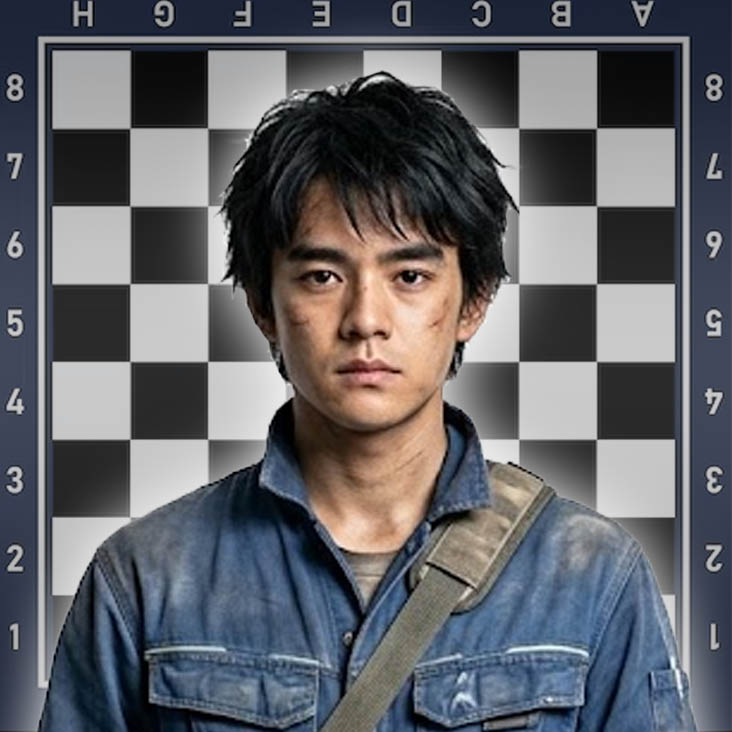
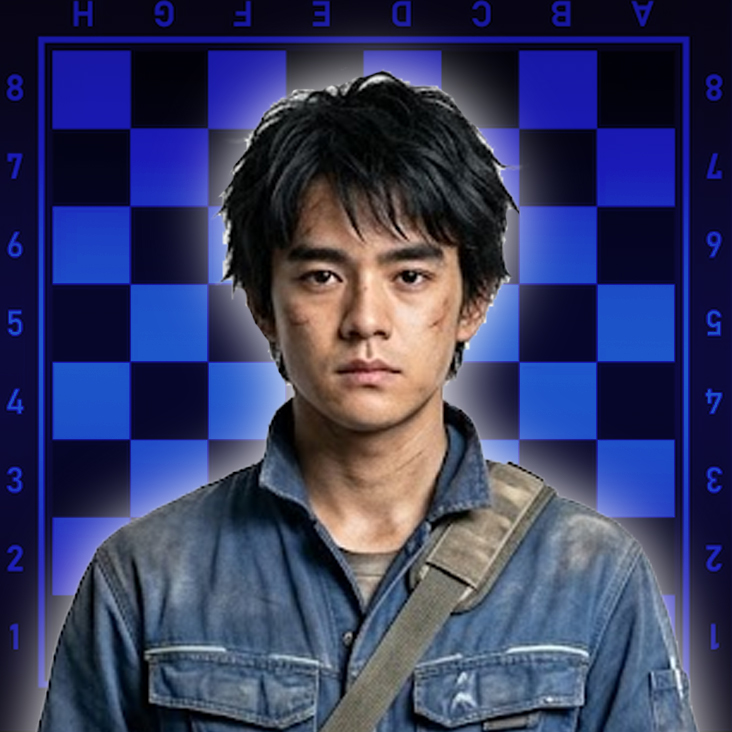
Episode 3

diff --git a/data/site-data.js b/data/site-data.js
@@ -32,30 +32,30 @@ window.CROWN_DATA = {
     // 首页骑士主视觉与骑士资料图完全分离。
     // 以后每周可以换成 assets/images/home/riders/week-02-xxx.png
     riderFeature:{
-      riderId:'crown',
+      riderId:'tunnel',
       formId:'base',
-      image:'assets/images/home/riders/week-01-crown.png',
-      note:'主角骑士公开：基础、沙漠、天空、狂风四种形态。'
+      image:'assets/images/home/riders/week-03-tunnel.png',
+      note:'二号骑士：假面骑士Tunnel重磅登场！'
     },
 
     // 首页只展示这里指定的人物，不会把人物库全部塞上来。
-    characterIds:['moroboshi','ijima'],
+    characterIds:['moroboshi','ego','ijima'],
 
     // 首页只展示这里指定的梦幻体。
-    monsterIds:['happy'],
+    monsterIds:['sabaku','happy'],
 
     // 首页道具同理；想展示几个就写几个。
-    itemIds:['driver','king-core','knock-o'],
+    itemIds:['tunnel-driver','knight-core','sabaku-core'],
 
     // 首页 STORY 指向哪一集。
-    storyId:'ep02'
+    storyId:'ep03'
   },
 
   news: [
-    { date:'2026.10.06', tag:'官网', text:'《假面骑士 Crown》官方网站开放' },
-    { date:'2026.10.17', tag:'故事', text:'第 02 集剧情页面公开' },
-    { date:'2026.10.17', tag:'官网', text:'小说目前在刺猬猫/番茄/飞卢/起点同期连载' },
-    { date:'2026.10.06', tag:'道具', text:'皇冠驱动器、捷能充芯与武器资料公开' }
+    { date:'2026.10.24', tag:'官网', text:'小说目前已确认在刺猬猫独家连载' },
+    { date:'2026.10.24', tag:'故事', text:'第 03 集剧情页面公开' },
+    { date:'2026.10.24', tag:'道具', text:'二号骑士Tunnel资料公开' },
+    { date:'2026.10.06', tag:'官网', text:'《假面骑士 Crown》官方网站开放' }
   ],
 
   /* =========================================================
@@ -115,7 +115,7 @@ window.CROWN_DATA = {
             {label:'拳力',value:'10.5 t'}, {label:'踢力',value:'15.0 t'},
             {label:'跳跃力',value:'35.0 m'}, {label:'跑速',value:'100 m / 4.8 s'}
           ],
-          abilities:['未知'],
+          abilities:['终焉必杀：荒漠熨杀（Sabaku-thermia Ironing）是配合武器击倒拳铳使出的必杀技，白沙汇聚在击倒拳铳的熨面，在攻击到敌人的瞬间以极快的速度腐蚀敌人的身体，以达到一击破防的效果。'],
           components:[
             {no:'01',name:'流沙盔甲',text:'夸张的蓝白色肩甲，其中间隙藏有【沙尘发生器】——将空气中水分和微量矿物转化为白色沙尘的核心装置，可用于紧急回避或制造沙幕。'},
             {no:'02',name:'荒芜披挂',text:'由隔热粒子组成的胸部铠甲，防止腐蚀沙尘反噬变身者，这一隔热粒子以胸甲为中心扩散到假面骑士Crown的全身各处。受到重击时，胸甲会主动崩解一部分外层装甲化为白沙消散，以卸除冲击力。'},
@@ -166,6 +166,48 @@ window.CROWN_DATA = {
           ]
         }
       ]
+    },
+    {
+      id:'tunnel',
+      published:true,
+      no:'01',
+      name:'假面骑士 Tunnel',
+      en:'KAMEN RIDER TUNNEL',
+      catch:'或者，你可以称呼我为——假面骑士Tunnel。',
+      forms:[
+        {
+          id:'base', no:'01', name:'CROWN', cn:'基础形态',
+          full:'../assets/images/riders/tunnel/tunnel-base-full.png',
+          head:'../assets/images/riders/tunnel/tunnel-base-head.png',
+          call:'Sitsugiru KNIGHT！速度之猿！KAMEN RIDER TUNNEL！',
+          intro:'由长谷川映悟使用隧道驱动器与骑士捷能充芯构筑的高机动形态。擅长以高机动性战斗，在国际象棋体系中对应“骑士”。',
+          relations:[{section:'other', categoryId:'guardian', entityId:'vulki', formId:'base', label:'灵魄守护兽 乌尔奇 / 基础形态'}],
+          stats:[
+            { label: '身高', value: '198.0 cm' }, // 重装皮套显得修长且魁梧
+            { label: '体重', value: '106.5 kg' }, // 包含涡轮引擎、排气管背包等金属重装，体重增加
+            { label: '拳力', value: '16.8 t' },   // 依靠引擎扭矩和猿猴臂力，拳力略高于均衡型
+            { label: '踢力', value: '27.5 t' },   // 战靴和护腿有推进器增压，踢击是核心输出
+            { label: '跳跃力', value: '45.0 m' }, // 完美体现“猿猴”的灵巧与腾空能力，远超均衡型
+            { label: '跑速', value: '100 m / 3.2 s' } // 机车引擎带来的爆发加速，跑速极快
+          ],
+          abilities:[ '未知'],
+          components:[
+            { no:'01', name:'禅勇刀镡', text:'存放禅&勇两把能量刀的便携式背包，Tunnel使用武器作战因此更加方便。' },
+            { no:'02', name:'斗骑盔铠', text:'内置多功能成像系统，可捕捉周围范围内的灵魄能量波动。' },
+            { no:'03', name:'整流甲胄', text:'采用多层复合装甲结构的纯白胸甲，能有效将正面受到的冲击向四周分散化解。' },
+            { no:'04', name:'深红引擎', text:'安装在双肩的红色涡轮结构，在高速运动中可加速周围气流流动，辅助散热。' },
+            { no:'05', name:'心猿', text:'嵌于胸甲右侧的圆形赤红能量核心，作为全身动力分配的中枢枢纽。可瞬间释放过载能量，为战斗提供爆发性输出。' },
+            { no:'06', name:'突击臂铠', text:'臂铠具备基础的隔空散热功能，可弹开部分类型的能量弹攻击。' },
+            { no:'07', name:'传能铁手', text:'手甲由多层纳米合金锻压而成，手背处嵌有方形能量导口，可在使用手部进攻时减轻反震。' },
+            { no:'08', name:'高能战斗服', text:'软质弹性材料组成的底衣，可以提升变身者的机动性和爆发性。' },
+            { no:'09', name:'冲锋护腿', text:'腿部的助推器可在骑士踢释放瞬间喷出气流增压，提升踢击贯穿力。膝盖部分象征“国王”的浮雕装甲额外加厚，便于进行膝撞等近身缠斗。' },
+            { no:'10', name:'进攻者战靴', text:'靴体装有小型能量导口，用于适应任何速度的进攻行动。靴跟处的压缩喷口会在踢技时向后方喷射高压气流，提供额外加速度。' },
+            { no:'11', name:'风切之凝眉', text:'额头的长型护额板，不仅强化了头部抗冲击力，更是变身者精神力的具象化。' },
+            { no:'12', name:'分析面甲', text:'搭载了乌尔奇数据库中的所有战斗资料，具备动态捕捉、红外热成像与速度预判功能，能在作战中瞬间看破敌方弱点。' },
+            { no:'13', name:'勇猛耳锥', text:'内部集成高频通讯与雷达天线，让变身者拥有如猿猴般敏锐的听觉与战场感知。' }
+          ]
+        }
+      ]
     }
   ],
 
@@ -209,12 +251,44 @@ window.CROWN_DATA = {
           relations:[{section:'rider', riderId:'crown', formId:'base', label:'假面骑士 Crown / 基础形态'}]
         }
       ]
+    },
+    {
+      id:'vulki', categoryId:'guardian', published:true, no:'G01',
+      name:'乌尔奇', en:'VULKI', catch:'与 Tunnel 缔结灵魂契约的灵魄守护兽。',
+      forms:[
+        {
+          id:'base', no:'01', name:'VULKI', cn:'基础形态',
+          // 每个形态的视图数量与名称都可自由定义。
+          // 基础形态有蛇模式与摩托模式，因此显示切换按钮和左右箭头。
+          views:[
+            {label:'猿模式', src:'../assets/images/others/vulki/vulki-base-ape.png'},
+            {label:'摩托模式', src:'../assets/images/others/vulki/vulki-base-bike.png'}
+          ],
+          intro:'灵魄守护兽乌尔奇的基础形态。通过和契约对象心意相通实体化诞生的存在。',
+          call:'',
+          stats:[
+            {label:'分类', value:'灵魄守护兽'},
+            {label:'契约对象', value:'长谷川映悟 / Tunnel'}
+          ],
+          abilities:['灵魂契约：平常状态下，灵魄守护兽将以纯粹意识的方式存在于对象的脑内，和契约对象进行私密的心灵对话。', '变形能力：可以变为机械猿/摩托双形态。'],
+          components:[
+            {no:'01',name:'威力肩盾',text:'可以悬浮拆卸进行防御的盾牌机构。必要时，还能脱离身体，合体为一枚高速旋转的巨型手里剑射向敌人。'},
+            {no:'02',name:'灵魄猿脑',text:'红色神秘金属覆盖的机械猿首，当乌尔奇被召唤出时，它的意识会通过这一装备转移到实体中。除了具备思考和沟通的能力，还储存着各种忍术技巧知识。'},
+            {no:'03',name:'战术能量剑',text:'乌尔奇可以将背后的车把手取下，以能量剑的形式参与战斗。'},
+            {no:'04',name:'静步喷射器',text:'腿部红色的装甲，搭载了消音材质的微型推进器。当进行跳跃或突进时，喷射器会产生“气垫”效果，实现真正的落地无声，极其适合执行潜入任务。'}
+          ],
+          relations:[{section:'rider', riderId:'tunnel', formId:'base', label:'假面骑士 Tunnel / 基础形态'}]
+        }
+      ]
     }
   ],
 
   characters:[
-    {id:'moroboshi', published:true, name:'诸星勇志', en:'MOROBOSHI YUJI', image:'../assets/images/characters/moroboshi-yuji.jpg', intro:'《假面骑士Crown》的主人公。被灵魄守护兽塔斯木选中后，拥有成为假面骑士Crown的力量。'},
+    {id:'moroboshi', published:true, name:'诸星勇志', en:'MOROBOSHI YUJI', image:'../assets/images/characters/moroboshi-yuji.jpg', intro:'主人公，新天地服务中心的技术修复员。被灵魄守护兽塔斯木选中后，拥有成为假面骑士Crown的力量。'},
+    {id:'ego', published:true, name:'长谷川映悟', en:'HASEGAWA EGO', image:'../assets/images/characters/hasegawa-ego.jpg', intro:'100%侦探事务所的侦探。被灵魄守护兽乌尔奇选中后，拥有成为假面骑士Tunnel的力量。'},
     {id:'ijima', published:true, name:'饭岛健一', en:'IJIMA KENICHI', image:'../assets/images/characters/ijima-kenichi.jpg', intro:'中央新闻社的现役记者，诸星勇志的好友。被梦幻体的力量所侵蚀。'},
+    {id:'ryougiku', published:true, name:'良菊俊彦', en:'RYOUGIKU TOSHIHIKO', image:'../assets/images/characters/ryougiku-toshihiko.jpg', intro:'诸星曾经的工友，有一个妻子和女儿，以梦幻体身份死去后变成了孤家寡人。'},
+    {id:'yamaguchi', published:true, name:'山口孝明', en:'YAMAGUCHI HYOMEI', image:'../assets/images/characters/yamaguchi-hyomei.jpg', intro:'诸星曾经的工友，曾喜爱诗歌，以梦幻体身份死去后成为一名律师。'},
     {id:'sato', published:true, name:'佐藤久间', en:'SATO KUMA', image:'../assets/images/characters/sato-kuma.jpg', intro:'上杉百合子的恋人。百合子突然死亡后，他被卷入围绕林野财团发生的一系列事件，并在巨大的悲愤中发生异变。'},
     {id:'yuriko', published:true, name:'上杉百合子', en:'UESUGI YURIKO', image:'../assets/images/characters/uesugi-yuriko.jpg', intro:'林野财团公关部门员工。关注底层居住区住宅项目，却在悦海酒店突然死亡。'},
     {id:'kuntai', published:true, name:'林野坤泰', en:'HAYASHINO KUNTAI', image:'../assets/images/characters/hayashino-kuntai.jpg', intro:'林野财团现任继承人。曾承诺推动底层居住区的新住宅建设计划。'}
@@ -236,24 +310,29 @@ window.CROWN_DATA = {
     {id:'anger', categoryId:'anger', published:true, no:'001', name:'愤怒梦幻体', en:'ANGER DREAMS', image:'../assets/images/monsters/anger-dream-phantom.png', intro:'由强烈愤怒所催生的梦幻体，其能力与宿主不断膨胀的愤怒情绪紧密相连。'},
     {id:'wind', categoryId:'anger', published:true, no:'002', name:'狂风梦幻体', en:'KAZE DREAMS', image:'../assets/images/monsters/wind-dream-phantom.png', intro:'能够操纵风元素的梦幻体，由佐藤久间变身而成,可以使用风弹进行攻击。'},
     {id:'happy', categoryId:'happy', published:true, no:'001', name:'愉悦梦幻体', en:'HAPPY DREAMS', image:'../assets/images/monsters/happy-dream-phantom.png', intro:'由强烈愉悦所催生的梦幻体，其能力与宿主不断膨胀的愉悦情绪紧密相连。'},
+    {id:'sabaku', categoryId:'happy', published:true, no:'002', name:'沙漠梦幻体', en:'SABAKU DREAMS', image:'../assets/images/monsters/sand-dream-phantom.png', intro:'能够操纵沙元素的梦幻体，由饭岛健一变身而成,可以操纵具有腐蚀能力的白沙进行攻击。'}
   ],
 
   items:[
-    {id:'driver', category:'变身系统', name:'皇冠驱动器', en:'CROWN DRIVER', image:'../assets/images/items/crown-driver.png', intro:'Crown 使用的变身系统。与不同捷能充芯联动，可启动变身、武器召唤与必杀系统。', relatedToys:['crown-driver-set']},
+    {id:'crown-driver', category:'变身系统', name:'皇冠驱动器', en:'CROWN DRIVER', image:'../assets/images/items/crown-driver.png', intro:'Crown 使用的变身系统。与不同捷能充芯联动，可启动变身、武器召唤与必杀系统。', relatedToys:['crown-driver-set']},
     {id:'king-core', category:'捷能充芯', name:'国王捷能充芯', en:'KING ENERGENCY CHARGE', image:'../assets/images/items/king-charge-core.png', intro:'假面骑士Crown·基础形态对应的捷能充芯。', relatedToys:[]},
+    {id:'tunnel-driver', category:'变身系统', name:'隧道驱动器', en:'TUNNEL DRIVER', image:'../assets/images/items/tunnel-driver.png', intro:'Tunnel 使用的变身系统。与不同捷能充芯联动，可启动变身、武器召唤与必杀系统。', relatedToys:['tunnel-driver-set']},
+    {id:'knight-core', category:'捷能充芯', name:'骑士捷能充芯', en:'KNIGHT ENERGENCY CHARGE', image:'../assets/images/items/knight-charge-core.png', intro:'假面骑士Tunnel·基础形态对应的捷能充芯。', relatedToys:[]},
     {id:'sabaku-core', category:'捷能充芯', name:'沙漠捷能充芯', en:'SABAKU ENERGENCY CHARGE', image:'../assets/images/items/sabaku-charge-core.png', intro:'沙漠浪子形态对应的捷能充芯。', relatedToys:[]},
     {id:'sora-core', category:'捷能充芯', name:'天空捷能充芯', en:'SORA ENERGENCY CHARGE', image:'../assets/images/items/sora-charge-core.png', intro:'天空指挥官形态对应的捷能充芯。', relatedToys:[]},
     {id:'kaze-core', category:'捷能充芯', name:'狂风捷能充芯', en:'KAZE ENERGENCY CHARGE', image:'../assets/images/items/kaze-charge-core.png', intro:'狂风游侠形态对应的捷能充芯。', relatedToys:[]},
     {id:'knock-core', category:'捷能充芯', name:'击倒拳铳武器充芯', en:'KNOCK-O ENERGENCY CHARGE', image:'../assets/images/items/knock-charge-core.png', intro:'能够召唤武器【击倒拳铳】的捷能充芯。', relatedToys:[]},
+    {id:'zn-core', category:'捷能充芯', name:'禅&勇武器充芯', en:'ZE-N & GUT-S ENERGENCY CHARGE', image:'../assets/images/items/zn-charge-core.png', intro:'能够召唤双刀型武器【禅】和【勇】的捷能充芯。', relatedToys:[]},
     {id:'land-core', category:'捷能充芯', name:'？？？捷能充芯', en:'ENERGENCY CHARGE', image:'../assets/images/items/land-charge-core.png', intro:'神秘人获得的捷能充芯。', relatedToys:[]},
-    {id:'knock-o', category:'武器', name:'击倒拳铳', en:'KNOCK-O', image:'../assets/images/items/weapons/knock-o.png', intro:'Crown 的初始二用型武器，可在拳模式与铳模式之间切换。', relatedToys:['knock-o-set']}
+    {id:'knock-o', category:'武器', name:'击倒拳铳', en:'KNOCK-O', image:'../assets/images/items/weapons/knock-o.png', intro:'Crown 的初始二用型武器，可在拳模式与铳模式之间切换。', relatedToys:['knock-o-set']},
+    {id:'zen-guts', category:'武器', name:'能量剑刃禅&能量剑刃勇', en:'ZE-N & GUT-S', image:'../assets/images/items/weapons/zen-guts.png', intro:'Tunnel 的初始武器，平常以双刀模式使用。', relatedToys:[]}
   ],
 
   toys:[
     {
       id:'crown-driver-set', name:'DX 皇冠驱动器', en:'DX CROWN DRIVER', category:'变身腰带套装',
       package:'toys/crown-driver-package.jpg', intro:'皇冠驱动器与国王捷能充芯组成的变身腰带套装。',
-      includedItems:['driver','king-core'],
+      includedItems:['crown-driver','king-core'],
       manuals:['manuals/crown-driver/01.jpg','manuals/crown-driver/02.jpg','manuals/crown-driver/03.jpg']
     },
     {
@@ -261,6 +340,12 @@ window.CROWN_DATA = {
       package:'toys/knock-o-package.jpg', intro:'假面骑士Crown初始的武器和召唤武器的捷能充芯。',
       includedItems:['knock-o','knock-core'],
       manuals:['manuals/knock-o/01.jpg','manuals/knock-o/02.jpg','manuals/knock-o/03.jpg']
+    },
+    {
+      id:'tunnel-driver-set', name:'DX 隧道驱动器', en:'DX TUNNEL DRIVER', category:'变身腰带套装',
+      package:'toys/tunnel-driver-package.jpg', intro:'隧道驱动器与骑士捷能充芯组成的变身腰带套装。',
+      includedItems:['tunnel-driver','knight-core'],
+      manuals:['manuals/tunnel-driver/01.jpg','manuals/tunnel-driver/02.jpg']
     }
   ],
 
@@ -304,6 +389,28 @@ window.CROWN_DATA = {
         { type:'image', src:'../assets/images/story/ep02/bdreams.jpg', label:'', caption:'愤怒和愉悦梦幻体的设计原稿 by 至高赞词。', wide:true },
         { type:'divider' },
         { type:'callout', title:'对观众说的话', html:'接下来，还请大家继续关注假面骑士Crown的后续内容，更多真相将会在后续的集数中慢慢揭晓。今后可能会从四个小说平台中选择其一签约，这就要看这部作品在不同平台具体的人气差别了。' },
+        { type:'paragraph', html:'<em>作者：一文字英雄</em>' }
+      ],
+
+      // 旧字段保留兼容；当 content 不存在或为空时，网页才会读取下面两项。
+      columnTitle:'第 01 集补充文章',
+      column:'本页的小作文、设定补充与作者文章都放在 STORY 内。之后每周新增一集对象即可，首页通过 home.storyId 决定本周展示哪一集。'
+    },
+    {
+      id:'ep03', episode:'03', title:'起源·REQUIEM FOR A DREAM', date:'2026.10.24',
+      image:'../assets/images/story/ep03/episode-03.jpg',
+      summary:'失去力量的诸星在挚友饭岛遗留的纸质手稿中找回初心，夺回驱动器，亲手送别化为梦幻体的饭岛，并由此背负起骑士的宿命......',
+
+      // STORY 富文本正文：顺序就是网页显示顺序。每一集的块数量、类型都可以完全不同。
+      // paragraph 的 html 支持 <strong>加粗</strong>、<em>斜体</em>、<br>换行。
+      content:[
+        { type:'guide', title:'人物关系', src:'../assets/images/story/ep03/guide.jpg' },
+        { type:'heading', text:'作者想说' },
+        { type:'paragraph', html:'<strong>虽然之前给了希望，但目前并没有办法让人恢复呢（笑）</strong> <br>对我来说，《假面骑士铠武》是对我进行同人创作意义深远的作品，因为最早尝试画同人就是从蘑菇锁种开始呢（笑）。<br>同样的，《铠武》中没有能够让怪人变回人形，这样悲剧的宿命感，反而让人感到缺憾。<br> 我们要塑造的是一个极其黑暗的骑士世界，为此，童话一样的展开可能会改变我们的主基调。<br>虽说如果按照TV规格，如此尺度的剧情肯定是无法实行的啦（笑）。' },
+        { type:'divider' },
+        { type:'paragraph', html:'<strong>为什么选择刺猬猫进行最终的连载？</strong> <br>说实话，之前试点连载的四个平台各有优劣。<br>我一开始更偏向于（哔——），不过（哔——）随后出台了制裁同人文的新制度，不由得让人心如死灰。<br> 除此以外，我个人也认为我的文笔不够好，因此还是得配上图文作为调剂。而这一点，恐怕目前只有刺猬猫能做到了。<br>因此，还请各位前往了其他平台观看的书友们（如果现在有的话），能够转战刺猬猫，感谢大家的理解。' },
+        { type:'divider' },
+        { type:'callout', title:'对观众说的话', html:'接下来，还请大家继续关注假面骑士Crown的后续内容，更多真相将会在后续的集数中慢慢揭晓。目前打算单单在刺猬猫继续连载下去，还请大家多多支持。' },
         { type:'paragraph', html:'<em>作者：一文字英雄</em>' }
       ],
 
